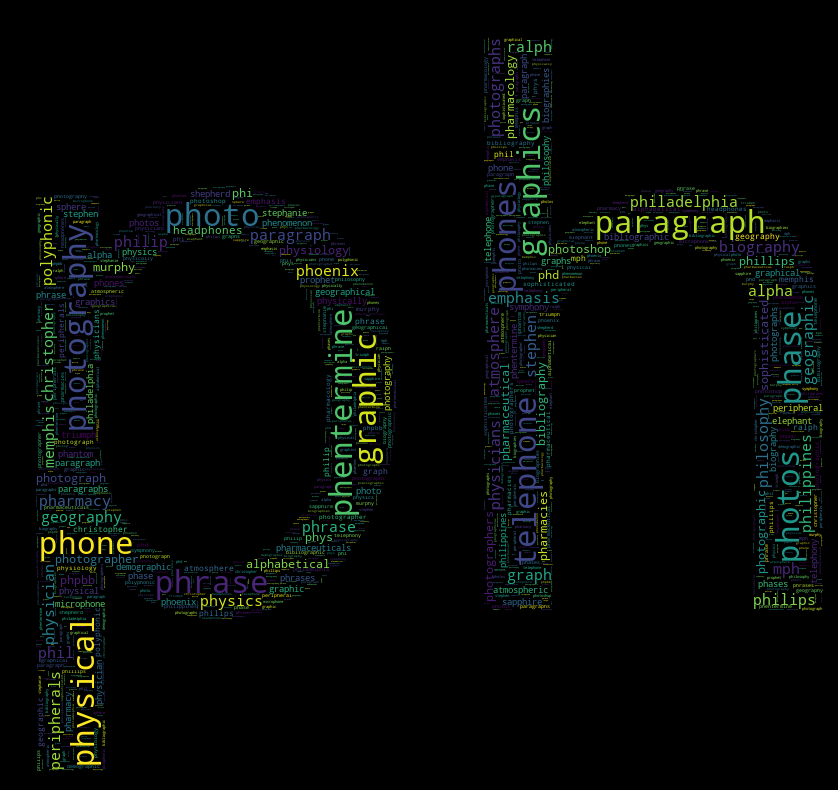
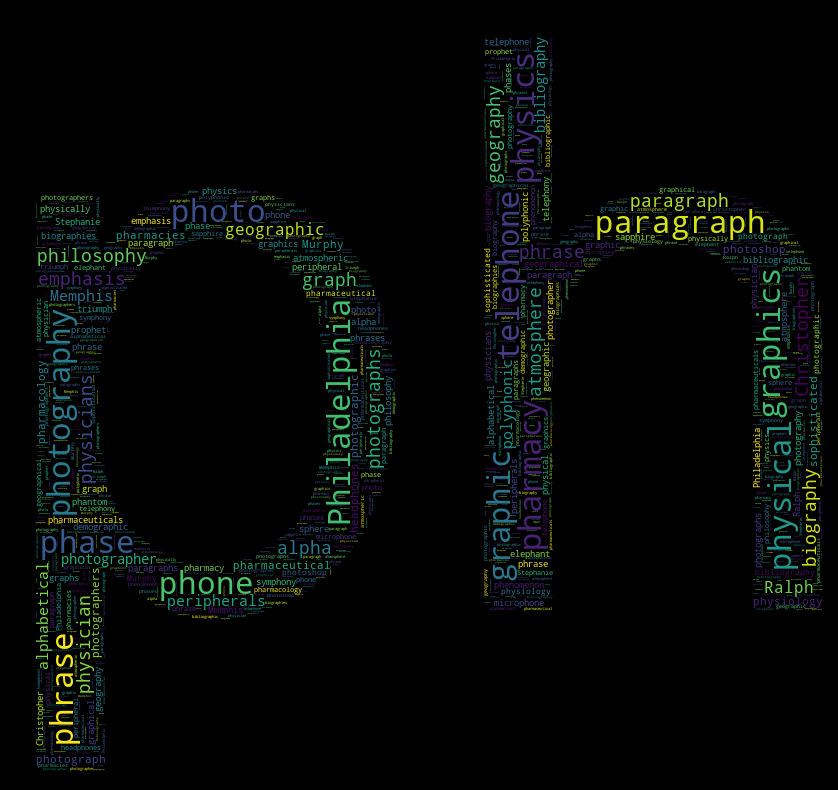
updates

Changed region(s): [[0.5585, 0.0304, 0.9928, 0.7899], [0.031, 0.2127, 0.4964, 0.9722]]

diff --git a/phonics_cloud_project/software_developer.py b/phonics_cloud_project/software_developer.py
@@ -20,8 +20,11 @@ class SoftwareCareerAnalysis:
         
         self.phonics_sound = "ph"
         self.background_color = "black"
-        self.save_image = path.join(d,"figures/phonics_cloud/black/ph_cloud.png")
-        self.mask_image = path.join(d,'mask_image/ph.png')
+        self.mask_image = path.join(d,'mask_image/ph_inv.png')
+        self.save_image = path.join(d,"figures/phonics_cloud/white/ph_cloud.png")
+        self.white_image = path.join(d,'mask_image/white.png')
+        self.second_image = path.join(d,"figures/phonics_cloud/white/second_image9.png")
+        
         self.csv_input = path.join(d,'csv_input/sightwords.csv') 
         self.csv_output = path.join(d,'csv_output/ph.csv')
 
@@ -57,12 +60,30 @@ def generate_wordcloud(self, words):
     WordCloud(
         width=850, height=550,
         background_color=self.background_color,
-        max_words = 2000,
+        max_words = 1000,
         repeat = True,
         stopwords=STOPWORDS,
         min_font_size=1,
-        mask=phonics_image
+        mask=phonics_image, 
+        # colormap='bone'
+        colormap = 'winter'
     ).generate_from_frequencies(words, is_list=True).to_file(self.save_image)
+
+
+    first_image = Image.open(self.white_image)
+    second_image = Image.open(self.save_image)
+    # mask_image = Image.open(self.mask_image)
+
+    mask = Image.open(self.mask_image).convert('L').resize(first_image.size)
+    im = Image.composite(first_image, second_image, mask)
+    
+    # mask = Image.new("L", mask_image.size, "white")
+    # im = Image.composite(second_image, first_image,  mask)
+    # im = Image.blend(im1, im2, 0.5)
+
+    # first_image.paste(second_image, box=(0,0), mask=second_image)
+    # paste() modifies the first PIL.Image.Image
+    im.save(self.second_image)
 
 
 if __name__ == "__main__":
